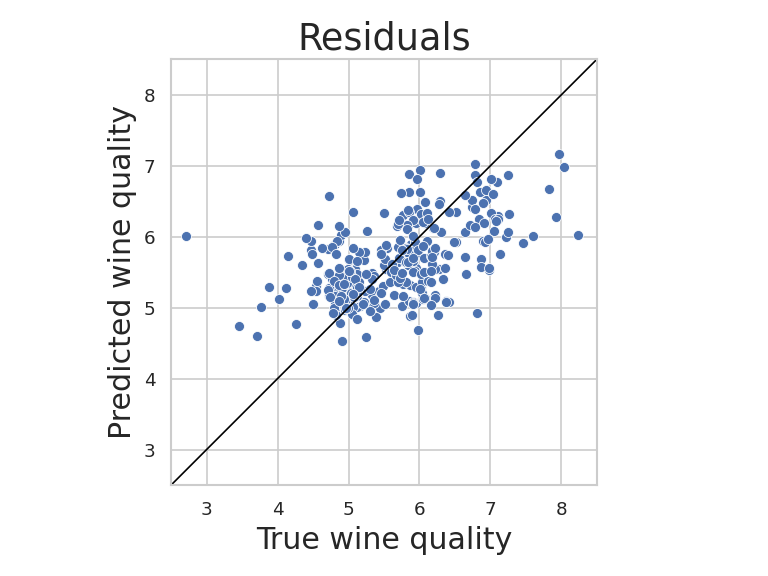
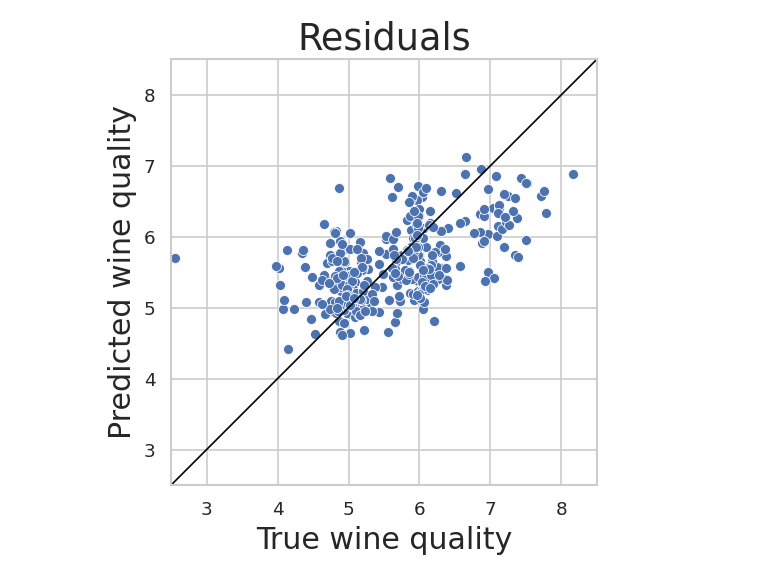
committing unsaved changes

diff --git a/train.py b/train.py
@@ -23,7 +23,7 @@ X_train, X_test, y_train, y_test = train_test_split(df, y, test_size=0.2, random
 #################################
 
 # Fit a model on the train section
-regr = RandomForestRegressor(max_depth=2, random_state=seed)
+regr = RandomForestRegressor(max_depth=5, random_state=seed)
 regr.fit(X_train, y_train)
 
 # Report training set score
